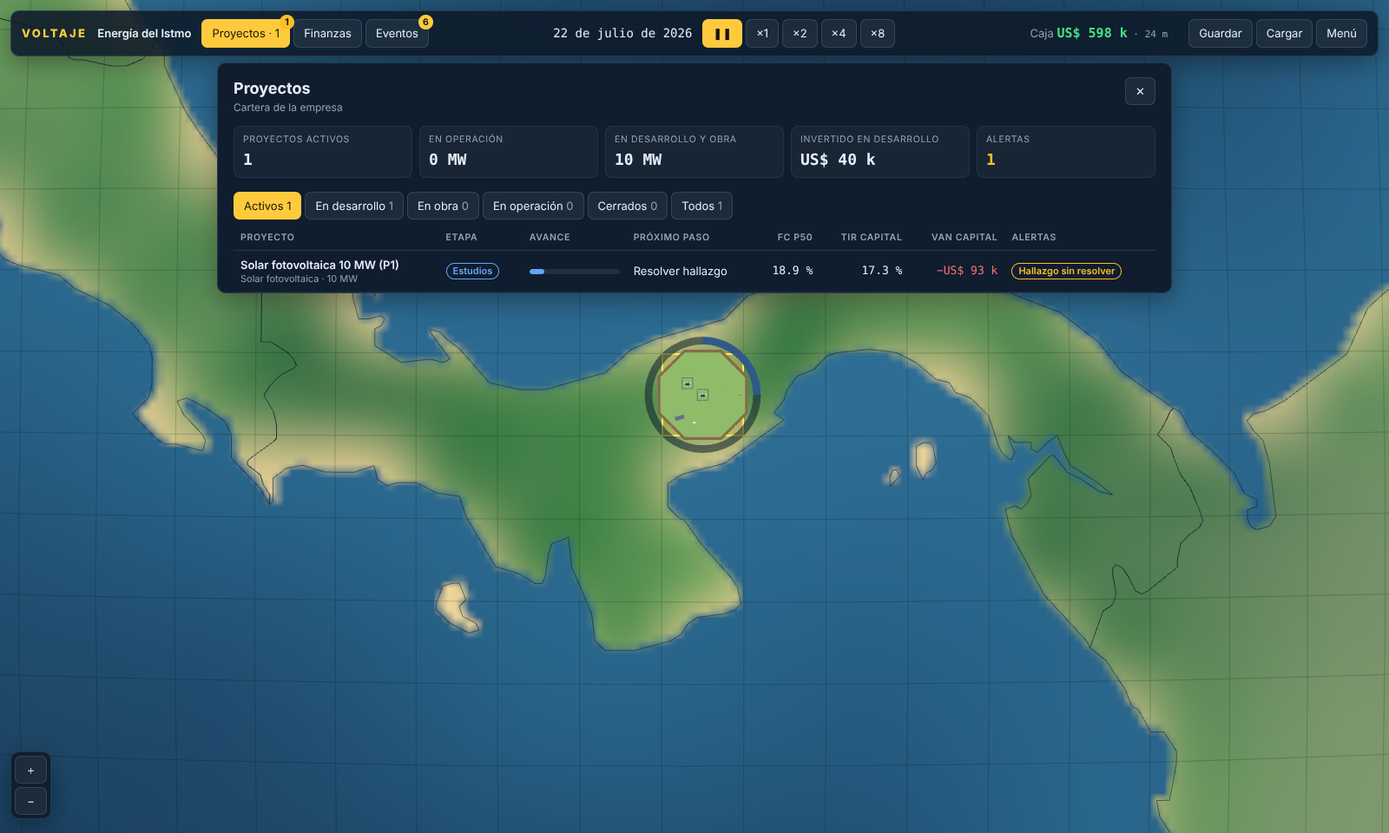
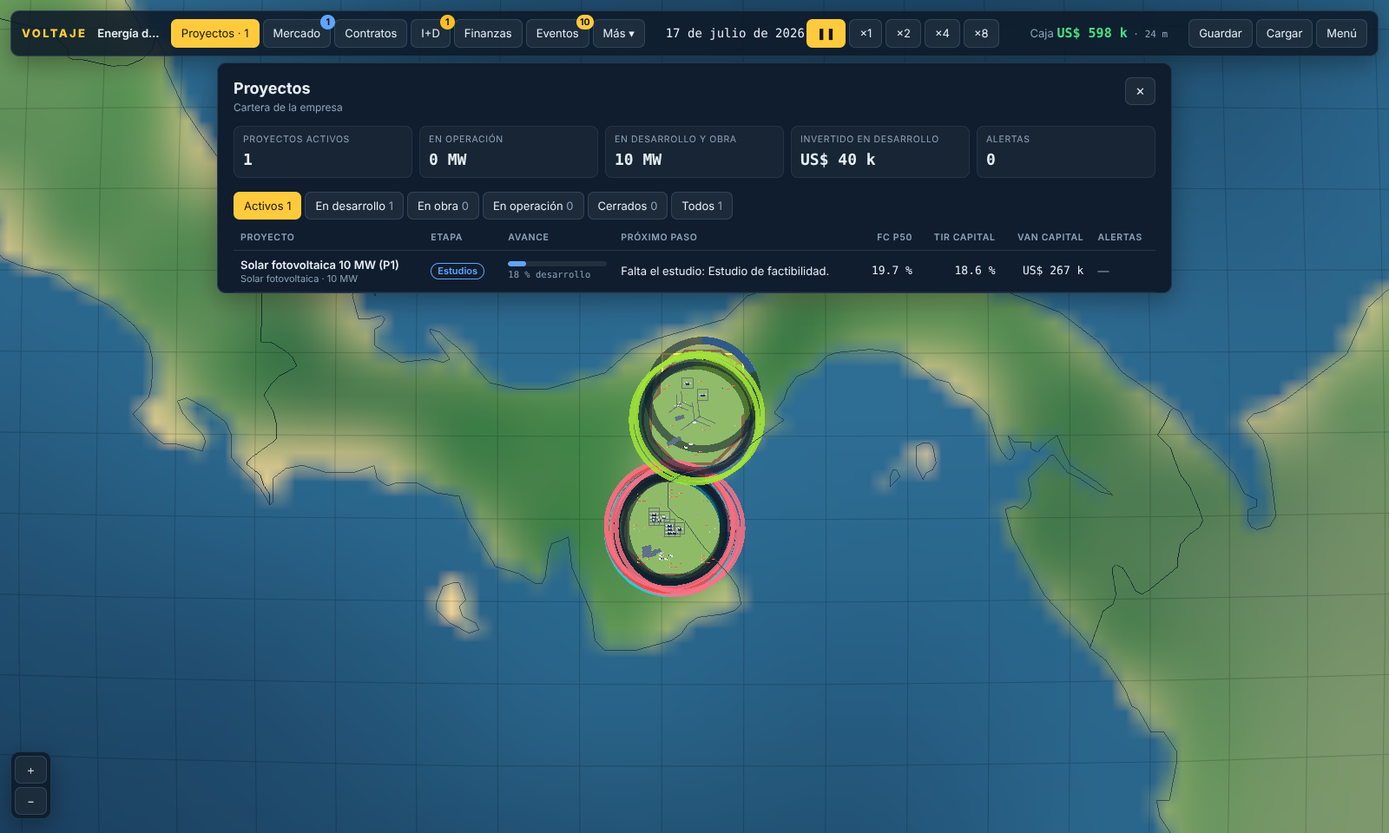
UI Fase 3: pulido visual (barra compacta, pesos, ficha de oportunidad), eventos de la IA filtrados, prueba de humo en una sola página (< 3 min), capturas y documentación
Claude-Session: https://claude.ai/code/session_013JqWNNvZubW6KT8mJjbqT7

diff --git a/energia/apps/game/src/ui/business/MarketPanel.tsx b/energia/apps/game/src/ui/business/MarketPanel.tsx
@@ -1,4 +1,5 @@
 import { Fragment, useState } from 'react';
+import { gameData } from '@voltaje/data';
 import type { MyBidView, OpportunityView, RankingEntry } from '@voltaje/sim';
 import { ui, useUi } from '../store';
 import { ConfirmButton, Empty, Pill, Section, Stat, Tabs, Window } from '../common';
@@ -66,13 +67,13 @@ function OpportunityTable({ list, sel, onPick, closed }: { list: OpportunityView
       <thead>
         <tr>
           <th>Cliente</th><th>Contrato</th><th className="num">Tamaño</th><th className="num">{closed ? 'Adjudicada' : 'Cierre'}</th>
-          <th className="num">Precio ref.</th><th className="num">Garantía</th><th>{closed ? 'Resultado' : 'Estado'}</th>
+          <th className="num">Precio ref.</th><th>{closed ? 'Resultado' : 'Estado'}</th>
         </tr>
       </thead>
       <tbody>
         {list.map((o) => (
           <tr key={o.id} className={`clickable ${sel === o.id ? 'selected' : ''}`} data-opp={o.id} onClick={() => onPick(o.id)}>
-            <td style={{ maxWidth: 260 }}>
+            <td style={{ maxWidth: 240 }}>
               <div className="row" style={{ gap: 6 }}>
                 <Pill tone={o.kind === 'licitacion_publica' ? 'info' : 'warn'}>{o.kind === 'licitacion_publica' ? 'Pública' : 'Privada'}</Pill>
                 <b className="ellipsis">{o.clientName}</b>
@@ -80,8 +81,8 @@ function OpportunityTable({ list, sel, onPick, closed }: { list: OpportunityView
               <div className="dim ellipsis" style={{ fontSize: 11 }}>{o.clientTypeName}</div>
             </td>
             <td>
-              <div className="row" style={{ gap: 5 }}><span className="dim">{CONTRACT_ICON[o.contract]}</span>{o.contractLabel}</div>
-              <div className="dim" style={{ fontSize: 11 }}>{o.techs.map((t) => techShort(t.id)).join(' · ')}</div>
+              <div className="row" style={{ gap: 5, whiteSpace: 'nowrap' }}><span className="dim">{CONTRACT_ICON[o.contract]}</span>{o.contractLabel}</div>
+              <div className="dim ellipsis" style={{ fontSize: 11, maxWidth: 170 }} title={o.techs.map((t) => techShort(t.id)).join(' · ')}>{o.techs.map((t) => techShort(t.id)).join(' · ')}</div>
             </td>
             <td className="num mono">
               {fmtNum(o.mw, 0)} MW{o.contract === 'potencia' ? ' firmes' : ''}
@@ -95,7 +96,6 @@ function OpportunityTable({ list, sel, onPick, closed }: { list: OpportunityView
               {fmtPrice(o.referencePrice, o.unit)}
               <div className="dim" style={{ fontSize: 11 }}>{o.ceilingPrice !== undefined ? `tope ${fmtNum(o.ceilingPrice, 1)}` : 'tope oculto'}</div>
             </td>
-            <td className="num mono">{fmtMoney(o.bidBondUsd)}</td>
             <td>{closed ? <ResultCell o={o} /> : <StatusCell o={o} />}</td>
           </tr>
         ))}
@@ -134,6 +134,25 @@ function OpportunityCard({ o }: { o: OpportunityView }) {
           <div className="dim" style={{ fontSize: 11.5 }}>{o.kindLabel} · {o.clientTypeName}</div>
         </div>
       </div>
+      {closed ? <ResultBlock o={o} /> : o.myBid ? (
+        <div className="notice good" style={{ marginTop: 10 }}>
+          <b>Tu oferta:</b> {fmtPrice(o.myBid.price, o.unit)} · {o.myBid.deliveryMonths} meses · {techShort(o.myBid.techId)}{o.myBid.projectId ? ` · ${o.myBid.projectId}` : ' · proyecto nuevo'}
+          <div className="dim" style={{ fontSize: 11.5 }}>Garantía {fmtMoney(o.myBid.bondUsd)} (colateral en caja {fmtMoney(o.myBid.bondUsd * (gameData.simData.clients?.garantias.colateral_frac ?? 0.5))}) · se adjudica el {fmtDate(o.awardDate)}</div>
+          {o.status === 'abierta' && (
+            <div style={{ marginTop: 6 }}>
+              <ConfirmButton confirm="Se recupera la garantía; el costo de preparación no." onConfirm={() => sim.command({ type: 'withdrawBid', opportunityId: o.id })}>Retirar oferta</ConfirmButton>
+            </div>
+          )}
+        </div>
+      ) : (
+        <>
+          {!o.canBid.ok && o.status === 'abierta' && <div className="notice warn" style={{ marginTop: 10 }}><b>No puedes ofertar:</b> {o.canBid.blockers.join(' ')}</div>}
+          <button className="primary" style={{ width: '100%', marginTop: 10 }} data-testid="open-bid" disabled={o.status !== 'abierta' || !o.techs.some((t) => t.modeled && t.unlocked)}
+            onClick={() => ui.set({ bidFor: o.id })} title={cash < o.prepCostUsd ? 'Caja insuficiente' : undefined}>
+            Armar oferta…
+          </button>
+        </>
+      )}
       <table className="kv" style={{ marginTop: 8 }}><tbody>
         <tr><td>Contrato</td><td>{o.contractLabel}</td></tr>
         <tr><td>{o.contract === 'potencia' ? 'Potencia firme' : 'Capacidad'}</td><td>{fmtNum(o.mw, 0)} MW{o.contract !== 'epc' ? ` · ${o.years} años` : ''}</td></tr>
@@ -157,28 +176,14 @@ function OpportunityCard({ o }: { o: OpportunityView }) {
       <div className="stat-label" style={{ margin: '10px 0 4px' }}>Criterios de evaluación</div>
       <div className="weights">
         {([['Precio', w.precio], ['Técnica', w.tecnica], ['Experiencia', w.experiencia], ['Plazo', w.plazo]] as const).map(([k, v]) => (
-          <div key={k} style={{ flex: v }} title={`${k}: ${fmtPct(v, 0)}`}><span>{k} {fmtPct(v, 0)}</span></div>
+          <div key={k} style={{ flex: v }} title={`${k}: ${fmtPct(v, 0)}`} />
         ))}
       </div>
-      {closed ? <ResultBlock o={o} /> : o.myBid ? (
-        <div className="notice good" style={{ marginTop: 12 }}>
-          <b>Tu oferta:</b> {fmtPrice(o.myBid.price, o.unit)} · {o.myBid.deliveryMonths} meses · {techShort(o.myBid.techId)}{o.myBid.projectId ? ` · ${o.myBid.projectId}` : ' · proyecto nuevo'}
-          <div className="dim" style={{ fontSize: 11.5 }}>Garantía inmovilizada {fmtMoney(o.myBid.bondUsd)} · se adjudica el {fmtDate(o.awardDate)}</div>
-          {o.status === 'abierta' && (
-            <div style={{ marginTop: 6 }}>
-              <ConfirmButton confirm="Se recupera la garantía; el costo de preparación no." onConfirm={() => sim.command({ type: 'withdrawBid', opportunityId: o.id })}>Retirar oferta</ConfirmButton>
-            </div>
-          )}
-        </div>
-      ) : (
-        <>
-          {!o.canBid.ok && o.status === 'abierta' && <div className="notice warn" style={{ marginTop: 12 }}><b>No puedes ofertar:</b> {o.canBid.blockers.join(' ')}</div>}
-          <button className="primary" style={{ width: '100%', marginTop: 12 }} data-testid="open-bid" disabled={o.status !== 'abierta' || !o.techs.some((t) => t.modeled && t.unlocked)}
-            onClick={() => ui.set({ bidFor: o.id })} title={cash < o.prepCostUsd ? 'Caja insuficiente' : undefined}>
-            Armar oferta…
-          </button>
-        </>
-      )}
+      <div className="weights-legend">
+        {([['Precio', w.precio], ['Técnica', w.tecnica], ['Experiencia', w.experiencia], ['Plazo', w.plazo]] as const).map(([k, v], i) => (
+          <span key={k}><i className={`wl wl${i}`} />{k} <b className="mono">{fmtPct(v, 0)}</b></span>
+        ))}
+      </div>
     </div>
   );
 }

diff --git a/energia/apps/game/src/ui/TopBar.tsx b/energia/apps/game/src/ui/TopBar.tsx
@@ -35,7 +35,7 @@ function MoreMenu() {
   return (
     <div className="menu-wrap" ref={ref}>
       <button className={active ? 'active' : ''} data-nav="more" onClick={() => setOpen(!open)} title="Competidores y proveedores">
-        {win === 'competitors' ? 'Competidores' : win === 'suppliers' ? 'Proveedores' : 'Más'} ▾
+        Más ▾
       </button>
       {open && (
         <div className="panel menu">
@@ -72,13 +72,13 @@ export function TopBar() {
         <NavButton id="projects" label={`Proyectos${active ? ` · ${active}` : ''}`} keyHint="P" badge={alerts} tone="var(--warn)" />
         <NavButton id="market" label="Mercado" keyHint="M" title="Licitaciones y ofertas" badge={biz?.biddableCount} tone="var(--info)" />
         <NavButton id="contracts" label="Contratos" keyHint="C" badge={contractAlerts} tone="var(--warn)" />
-        <NavButton id="research" label={researching ? 'I+D ◔' : 'I+D'} keyHint="I" title="Investigación y desarrollo" />
+        <NavButton id="research" label="I+D" keyHint="I" title={researching ? 'Investigación y desarrollo (investigando)' : 'Investigación y desarrollo: nada en curso'} badge={researching ? 0 : 1} tone="var(--warn)" />
         <NavButton id="finance" label="Finanzas" keyHint="F" />
         <NavButton id="events" label="Eventos" keyHint="E" badge={unread} />
         <MoreMenu />
       </div>
       <div className="spacer" />
-      <div className="mono date" data-testid="date">{formatDate(date)}</div>
+      <div className="mono date" title={formatDate(date)}><span className="date-long" data-testid="date">{formatDate(date)}</span><span className="date-short">{formatDate(date, true)}</span></div>
       <div className="row" style={{ gap: 4 }}>
         <button className={speedId === null ? 'active' : ''} onClick={() => ui.setSpeed(null)} title="Pausa (Espacio)">❚❚</button>
         {gameData.game.velocidades.map((v, i) => (
@@ -89,7 +89,7 @@ export function TopBar() {
       <div className="spacer" />
       <button className="cash" onClick={() => ui.openWindow('finance')}
         title={`Caja · ${runway === null ? 'la empresa genera caja' : `alcanza para ~${fmtNum(runway, 0)} meses`}${risk ? ` · riesgo de quiebra: ${risk.label.toLowerCase()}` : ''}`}>
-        <span className="dim">Caja </span>
+        <span className="dim cash-label">Caja </span>
         <span className="mono" style={{ fontSize: 15, fontWeight: 700, color: cash < 0 ? 'var(--bad)' : runway !== null && runway < 6 ? 'var(--warn)' : 'var(--good)' }} data-testid="cash">{fmtMoney(cash)}</span>
         {runway !== null && <span className="dim mono" style={{ fontSize: 11 }}> · {fmtNum(runway, 0)} m</span>}
       </button>

diff --git a/energia/apps/game/src/ui/business/CompetitorsPanel.tsx b/energia/apps/game/src/ui/business/CompetitorsPanel.tsx
@@ -22,7 +22,8 @@ export function CompetitorsPanel() {
     const o = baseOption(rows.map((r) => r.name), { unit: ' MW' }) as Record<string, unknown>;
     return {
       ...o,
-      grid: { left: 150, right: 18, top: 30, bottom: 22 },
+      grid: { left: 150, right: 18, top: 8, bottom: 22 },
+      legend: { show: false },
       xAxis: { type: 'value', splitLine: { lineStyle: { color: CHART.grid } }, axisLabel: { color: CHART.text, formatter: (v: number) => `${v} MW` } },
       yAxis: { type: 'category', inverse: true, data: rows.map((r) => r.name), axisLabel: { color: CHART.text, width: 135, overflow: 'truncate' }, axisLine: { lineStyle: { color: CHART.grid } } },
       series: [
@@ -41,7 +42,7 @@ export function CompetitorsPanel() {
       <div className="stats-row">
         <Stat label="MW renovables en operación" value={`${fmtNum(ov.totalOperatingMw, 0)} MW`} hint="empresas del juego" />
         <Stat label="Tu cuota" value={fmtPct(ov.player.marketShare, 0)} tone={ov.player.marketShare > 0 ? 'good' : undefined} hint={`${fmtNum(ov.player.operatingMw, 0)} MW`} />
-        <Stat label="Líder" value={leader && leader.marketShare > ov.player.marketShare ? leader.name : ov.player.name} hint={leader ? `${fmtPct(Math.max(leader.marketShare, ov.player.marketShare), 0)} del mercado` : undefined} />
+        <Stat label="Líder" value={ov.totalOperatingMw <= 0 ? 'Nadie aún' : leader && leader.marketShare > ov.player.marketShare ? leader.name : ov.player.name} hint={ov.totalOperatingMw <= 0 ? 'ninguna planta en operación' : `${fmtPct(Math.max(leader?.marketShare ?? 0, ov.player.marketShare), 0)} del mercado`} />
         <Stat label="Tu reputación" value={fmtNum(ov.player.reputation, 0)} />
         <Stat label="Competidores activos" value={list.filter((c) => c.status === 'activa').length} hint={list.some((c) => c.status === 'quebrada') ? `${list.filter((c) => c.status === 'quebrada').length} quebrada(s)` : undefined} />
       </div>
@@ -68,7 +69,7 @@ export function CompetitorsPanel() {
                 ))}
               </tbody>
             </table>
-            <Section title="Capacidad por empresa">{chartOpt && <Chart option={chartOpt} height={250} />}</Section>
+            <Section title="Capacidad por empresa" right={<span className="dim" style={{ fontSize: 11 }}>barra llena: en operación · clara: en desarrollo visible · ◆ experiencia acreditada</span>}>{chartOpt && <Chart option={chartOpt} height={250} />}</Section>
           </div>
           {sel && <CompetitorCard c={sel} index={list.indexOf(sel)} />}
         </div>

diff --git a/energia/apps/game/src/theme/theme.css b/energia/apps/game/src/theme/theme.css
@@ -55,10 +55,19 @@ button.link:hover:not(:disabled) { background: none; filter: brightness(1.2); }
 .topbar { position: absolute; top: 12px; left: 12px; right: 12px; padding: 8px 12px; gap: 12px; }
 .topbar .brand { font-weight: 800; letter-spacing: .18em; color: var(--accent); }
 .topbar .company { font-weight: 600; max-width: 180px; }
-.topbar .date { min-width: 150px; text-align: right; font-size: 14px; }
+.topbar .date { min-width: 150px; text-align: right; font-size: 14px; white-space: nowrap; }
+.topbar button { white-space: nowrap; }
 .topbar .cash { background: none; border-color: transparent; white-space: nowrap; }
 .nav-badge { position: absolute; top: -6px; right: -6px; min-width: 17px; height: 17px; padding: 0 4px; border-radius: 9px; color: #111; font-size: 10.5px; font-weight: 700; line-height: 17px; text-align: center; }
+.topbar .date-short { display: none; }
 @media (max-width: 1400px) { .topbar .company { display: none; } .topbar .date { min-width: 0; } .topbar { gap: 8px; } }
+@media (max-width: 1360px) {
+  .topbar .brand { display: none; }
+  .topbar .date-long, .topbar .cash-label { display: none; }
+  .topbar .date-short { display: inline; }
+  .topbar button { padding: 6px 8px; }
+  .topbar { gap: 6px; padding: 8px 10px; }
+}
 
 .window-wrap { position: absolute; inset: 66px 0 0 0; display: flex; justify-content: center; align-items: flex-start; padding: 6px 12px 12px; pointer-events: none; }
 .window { pointer-events: auto; background: var(--panel-solid); max-height: 100%; display: flex; flex-direction: column; padding: 16px 18px 0; }
@@ -183,7 +192,10 @@ kbd { font-family: var(--mono); font-size: 10.5px; color: var(--text-dim); borde
 .weights > div:nth-child(2) { background: #60a5fa; }
 .weights > div:nth-child(3) { background: #a78bfa; }
 .weights > div:nth-child(4) { background: #4ade80; }
-.weights span { overflow: hidden; text-overflow: ellipsis; padding: 0 4px; }
+.weights { height: 8px; }
+.weights-legend { display: flex; flex-wrap: wrap; gap: 4px 12px; font-size: 11.5px; margin-top: 6px; }
+i.wl { display: inline-block; width: 8px; height: 8px; border-radius: 2px; margin-right: 4px; }
+.wl0 { background: #ffcb3d; } .wl1 { background: #60a5fa; } .wl2 { background: #a78bfa; } .wl3 { background: #4ade80; }
 .ranking td, .ranking th { padding: 5px 6px; font-size: 12px; }
 .obligations { margin: 0; padding-left: 18px; font-size: 12px; display: grid; gap: 4px; }
 .swatch { display: inline-block; width: 9px; height: 9px; border-radius: 2px; margin-right: 7px; vertical-align: 1px; }

diff --git a/energia/apps/game/src/ui/business/SuppliersPanel.tsx b/energia/apps/game/src/ui/business/SuppliersPanel.tsx
@@ -20,12 +20,12 @@ export function SuppliersPanel() {
   if (!cat) return <Window title="Proveedores" onClose={() => ui.openWindow(null)} testId="suppliers-panel"><Empty>Cargando…</Empty></Window>;
   const sol = cat.techIndices.find((t) => t.techId === 'solar_fv');
   const wind = cat.techIndices.find((t) => t.techId === 'eolica_tierra');
-  const chg = (v: number | null) => (v === null ? 'sin historial de 12 meses' : `${v >= 0 ? '+' : '−'}${fmtPct(Math.abs(v), 1)} en 12 meses`);
+  const chg = (v: number | null) => (v === null ? 'vs. inicio de la partida' : `${v >= 0 ? '+' : '−'}${fmtPct(Math.abs(v), 1)} en 12 meses`);
   return (
     <Window title="Proveedores y cadena de suministro" subtitle="Precios actuales, plazos de entrega, colas de pedidos y tu relación con cada proveedor" width={1300} onClose={() => ui.openWindow(null)} testId="suppliers-panel">
       <div className="stats-row">
-        {sol && <Stat label="CAPEX solar FV hoy" value={`${fmtNum(sol.capexUsdKwNow, 0)} US$/kW`} hint={`equipos ×${fmtNum(sol.equipment, 3)} · ${chg(sol.equipmentChange12m)}`} tone={sol.equipmentChange12m !== null ? (sol.equipmentChange12m > 0 ? 'warn' : 'good') : undefined} />}
-        {wind && <Stat label="CAPEX eólica hoy" value={`${fmtNum(wind.capexUsdKwNow, 0)} US$/kW`} hint={`equipos ×${fmtNum(wind.equipment, 3)} · ${chg(wind.equipmentChange12m)}`} tone={wind.equipmentChange12m !== null ? (wind.equipmentChange12m > 0 ? 'warn' : 'good') : undefined} />}
+        {sol && <Stat label="CAPEX solar FV hoy" value={`${fmtNum(sol.capexUsdKwNow, 0)} US$/kW`} hint={`equipos ×${fmtNum(sol.equipment, 2)}${sol.equipmentChange12m !== null ? ` · ${chg(sol.equipmentChange12m)}` : ''}`} tone={sol.equipmentChange12m !== null ? (sol.equipmentChange12m > 0 ? 'warn' : 'good') : undefined} />}
+        {wind && <Stat label="CAPEX eólica hoy" value={`${fmtNum(wind.capexUsdKwNow, 0)} US$/kW`} hint={`equipos ×${fmtNum(wind.equipment, 2)}${wind.equipmentChange12m !== null ? ` · ${chg(wind.equipmentChange12m)}` : ''}`} tone={wind.equipmentChange12m !== null ? (wind.equipmentChange12m > 0 ? 'warn' : 'good') : undefined} />}
         {cat.materials.map((m) => <Stat key={m.id} label={m.nombre} value={`×${fmtNum(m.index, 2)}`} hint={chg(m.change12m)} tone={m.index > 1.1 ? 'warn' : m.index < 0.9 ? 'good' : undefined} />)}
         <Stat label="Demanda mundial" value={`×${fmtNum(cat.demandIndex, 2)}`} hint="alarga plazos y sube precios" tone={cat.demandIndex > 1.1 ? 'warn' : undefined} />
       </div>

diff --git a/energia/apps/game/src/ui/business/ResearchPanel.tsx b/energia/apps/game/src/ui/business/ResearchPanel.tsx
@@ -100,8 +100,8 @@ export function ResearchPanel() {
                 const x1 = a.x + NODE_W, y1 = a.y + NODE_H / 2, x2 = p.x, y2 = p.y + NODE_H / 2;
                 const mx = (x1 + x2) / 2;
                 const hot = sel && (sel.id === p.n.id || sel.id === r.id);
-                const c = r.done ? 'rgba(74,222,128,.55)' : 'rgba(140,180,220,.35)';
-                return <path key={`${r.id}-${p.n.id}`} d={`M${x1},${y1} C${mx},${y1} ${mx},${y2} ${x2},${y2}`} stroke={hot ? '#ffcb3d' : c} strokeWidth={hot ? 2.2 : 1.4} fill="none" strokeDasharray={r.done ? undefined : '4 3'} />;
+                const c = r.done ? 'rgba(74,222,128,.22)' : 'rgba(140,180,220,.35)';
+                return <path key={`${r.id}-${p.n.id}`} d={`M${x1},${y1} C${mx},${y1} ${mx},${y2} ${x2},${y2}`} stroke={hot ? '#ffcb3d' : c} strokeWidth={hot ? 2.2 : 1.2} fill="none" strokeDasharray={r.done ? undefined : '4 3'} />;
               }))}
             </svg>
             {[...L.placed.values()].map(({ n, x, y }) => (
@@ -174,7 +174,7 @@ function NodeDetail({ n, t }: { n: ResearchNodeView; t: ResearchTreeView }) {
       <table className="kv"><tbody>
         <tr><td>Costo</td><td>{fmtMoney(n.costUsd)}</td></tr>
         <tr><td>Duración mínima</td><td>{n.months} meses</td></tr>
-        <tr><td>Con tu presupuesto</td><td>{n.monthsAtBudget === null ? <span style={{ color: 'var(--warn)' }}>sin presupuesto</span> : `${fmtNum(n.monthsAtBudget, 1)} meses`}</td></tr>
+        {n.status !== 'completado' && <tr><td>Con tu presupuesto</td><td>{n.monthsAtBudget === null ? <span style={{ color: 'var(--warn)' }}>sin presupuesto</span> : `${fmtNum(n.monthsAtBudget, 1)} meses`}</td></tr>}
         <tr><td>Prob. de contratiempo</td><td>{fmtPct(n.setbackProbability, 0)}</td></tr>
         {n.progress > 0 && n.status !== 'completado' && <tr><td>Avance</td><td>{fmtPct(n.progress, 0)}</td></tr>}
       </tbody></table>

diff --git a/energia/apps/game/src/globe/Globe.ts b/energia/apps/game/src/globe/Globe.ts
@@ -99,7 +99,9 @@ export class Globe {
 
   constructor(private canvas: HTMLCanvasElement, private world: World) {
     const g = theme.globe;
-    this.renderer = new THREE.WebGLRenderer({ canvas, antialias: true, alpha: true });
+    // `?aa=0` (prueba de humo en CPU): sin antialias, que en swiftshader es lo más caro de cada cuadro
+    const params = new URLSearchParams(location.search);
+    this.renderer = new THREE.WebGLRenderer({ canvas, antialias: params.get('aa') !== '0', alpha: true });
     this.renderer.setPixelRatio(Math.min(window.devicePixelRatio, 2));
     this.renderer.outputColorSpace = THREE.SRGBColorSpace;
 
@@ -107,7 +109,9 @@ export class Globe {
     this.camera.position.set(0, 0, 3.2);
 
     // Texturas de mapa: 8192 px en Apple Silicon (costas nítidas al acercarse), 4096 si la GPU no da más.
-    const texSize = Math.min(8192, this.renderer.capabilities.maxTextureSize);
+    // `?tex=4096` (prueba de humo en CPU) baja la resolución para cargar más rápido.
+    const texParam = Number(params.get('tex')) || 8192;
+    const texSize = Math.min(texParam, 8192, this.renderer.capabilities.maxTextureSize);
     this.material = new THREE.ShaderMaterial({
       vertexShader: vertex,
       fragmentShader: fragment,

diff --git a/energia/apps/game/src/ui/project/ProjectWindow.tsx b/energia/apps/game/src/ui/project/ProjectWindow.tsx
@@ -102,7 +102,7 @@ function ViabilityCard({ v, d, onClose, stale }: { v: { busy: boolean; result?: 
       {r && (
         <div className="viab-grid">
           <div className="viab-big">
-            <div className="stat-label">Probabilidad de llegar a operación</div>
+            <div className="stat-label">Prob. de llegar a operación</div>
             <div className="mono" style={{ fontSize: 34, fontWeight: 800, color: r.probCod >= 0.6 ? 'var(--good)' : r.probCod >= 0.35 ? 'var(--warn)' : 'var(--bad)' }}>{fmtPct(r.probCod, 0)}</div>
             <div className="dim" style={{ fontSize: 11 }}>Estimación del motor sin simular: {fmtPct(d.successProbability, 0)}</div>
             <div className="dim" style={{ fontSize: 11 }}>Precio supuesto: {r.ppaChannelId ? `PPA (${d.ppa?.channelName ?? r.ppaChannelId})` : 'spot'}</div>

diff --git a/energia/apps/game/src/globe/sites.ts b/energia/apps/game/src/globe/sites.ts
@@ -82,13 +82,14 @@ export class SiteLayer {
     for (const [id, e] of this.entries) if (!seen.has(id)) { e.visual.dispose(); this.entries.delete(id); }
   }
 
-  /** Proyecto bajo el punto de pantalla (radio de 22 px). */
+  /** Proyecto bajo el punto de pantalla (radio de 22 px; las propias primero). */
   pickAt(x: number, y: number): string | null {
     let best: string | null = null, bestD = 22;
     for (const [id, e] of this.entries) {
       const s = this.globe.toScreen(e.pos);
       if (!s) continue;
-      const d = Math.hypot(s.x - x, s.y - y);
+      // las plantas propias tienen prioridad cuando se superponen con las de un competidor
+      const d = Math.hypot(s.x - x, s.y - y) + (this.rivalOwner.has(id) ? 10 : 0);
       if (d < bestD) { bestD = d; best = id; }
     }
     return best;

diff --git a/energia/apps/game/src/App.tsx b/energia/apps/game/src/App.tsx
@@ -58,6 +58,8 @@ function useGameEvents() {
           if (e.type === 'projectCreated') ui.openProject(e.projectId);
           continue;
         }
+        // el motor publica también la firma de contratos de la IA (ids «C2-K1»): no son del jugador
+        if ('contractId' in e && /^C\d+-/.test(e.contractId)) continue;
         const link = businessLink(e);
         if (link && 'text' in e && 'severity' in e) {
           log.push({ tick, date, text: e.text, severity: e.severity, link });

diff --git a/energia/docs/UI.md b/energia/docs/UI.md
@@ -1,4 +1,4 @@
-# UI de la Fase 2 — pantallas y flujos
+# UI de las Fases 2 y 3 — pantallas y flujos
 
 Todo en `apps/game/src`. Estilo de juego de gestión: ventanas grandes sobre el globo, tablas, KPI y gráficas (ECharts modular, `ui/Chart.tsx`). Colores y medidas en `theme/theme.css` (sección «Fase 2»); color por etapa en `globe/siteVisual.ts` (`STAGE_COLORS`, compartido con la UI).
 
@@ -43,7 +43,37 @@ La tarjeta de viabilidad muestra probabilidad de llegar a operación, meses P50/
 - `Globe.ts` expone `scene`, `camera`, `frameHooks`, `onPickScreen` y `toScreen()`.
 
 ## Atajos
-Espacio pausa/reanuda · 1–5 velocidades · P proyectos · F finanzas · E eventos · Esc cierra (diálogo → desarrollar → ventana → selección) · ⌘/Ctrl+S guardar · +/− zoom.
+Espacio pausa/reanuda · 1–5 velocidades · P proyectos · M mercado · C contratos · I investigación (I+D) · F finanzas · E eventos · R competidores · V proveedores · Esc cierra (diálogo → oferta → desarrollar → ventana → selección) · ⌘/Ctrl+S guardar · +/− zoom. Con un deslizador enfocado los atajos siguen funcionando; en campos de texto solo Esc.
+
+## Fase 3: mercado, contratos, I+D, competidores y proveedores
+Todo en `ui/business/`. Las vistas vienen de `selectorsBusiness.ts` y se calculan en el worker:
+- `Views.business` (`worker/protocol.ts`): `summary` (`selectBusinessSummary`), `competitors` (`selectCompetitors`, también para el globo) y `biddableCount` van **siempre**; `opportunities`+`myBids` (Mercado), `contracts`+`myBids` (Contratos), `research` (I+D) y `suppliers` (Proveedores) **solo mientras su ventana está abierta** (`sim.panel(id)`, lo hacen `ui.openWindow`/`ui.openPanel`).
+- Bajo pedido: `quote` → `selectBidQuote` + proveedores de la tecnología (diálogo de oferta, 120 ms de espera); `finPreview` → `previewFinancing`.
+- El worker llama `applyCommands(state, [], ctx)` al crear o cargar una partida: el mundo de la Fase 3 (mercado, IA) existe aunque el juego esté en pausa.
+
+| Pantalla | Archivo | Contenido |
+|---|---|---|
+| Barra superior | `ui/TopBar.tsx` | Proyectos · Mercado (nº de oportunidades sin oferta tuya) · Contratos (sin proyecto o atrasados) · I+D (aviso si no hay nada en curso) · Finanzas · Eventos · **Más ▾** (Competidores, Proveedores). Bajo 1360 px se ocultan marca y «Caja» y la fecha pasa a corta |
+| Mercado | `MarketPanel.tsx` | KPI (abiertas, ofertas vigentes, ganadas/perdidas, reputación, experiencia, caja en garantías); pestañas **Oportunidades** (pública/privada, cliente, contrato y tecnologías, MW, años, COD, cierre y días, referencia y tope u «oculto», estado: puedes ofertar / motivo / tu oferta), **Mis ofertas** (precio, plazo, puntaje, estado y puesto; fila desplegable con el ranking y tu puntaje por criterio) y **Resultados**. Ficha: tu oferta (retirar) o **Armar oferta…**, ranking con precios revelados si está cerrada, condiciones, garantías, multas, requisitos ✓/✕ y pesos de evaluación |
+| Armar oferta | `BidDialog.tsx` | tecnología (Fase 4 y sin investigar deshabilitadas), proyecto propio elegible o nuevo, esfuerzo estándar/reforzado, proveedores de equipos y EPC; equilibrio (VAN = 0), sugerido y tu precio; margen (−15 % a +60 %) o precio escrito; avisos de tope/equilibrio; plazo de COD con aviso si es < 80 % del realista; puntaje estimado por criterio y total; preparación, garantía de seriedad, colateral y comisión, garantía de cumplimiento, caja necesaria; bloqueos; confirmación en línea |
+| Contratos | `ContractsPanel.tsx` | KPI (activos, sin proyecto, atrasados, garantías, multas, ingresos); tabla (tipo, precio, estado, COD límite y días, avance, garantía); ficha con fechas, obligaciones, EPC (avance, presupuesto, cobrado, sobrecostos, daños, margen), proyecto vinculado y **Asignar proyecto** (misma tecnología, 0,9–1,5× MW, sin PPA ni contrato) |
+| I+D | `ResearchPanel.tsx` | árbol por ramas (carriles) y columnas por profundidad; líneas SVG de prerrequisitos (resaltadas para el nodo elegido); nodos con estado, costo, meses, «F4» si llega en la Fase 4 y avance. Panel: presupuesto mensual (0–250 k), ficha (efectos, costo, meses con tu presupuesto, contratiempo, requisitos), Investigar / Poner en cola / Encolar tras requisitos / Cancelar; cola |
+| Competidores | `CompetitorsPanel.tsx` | KPI (MW en operación, tu cuota, líder, reputación, activas); tabla (cuota, MW, proyectos visibles, licitaciones G/P, reputación); gráfica de capacidad (operación, desarrollo visible, experiencia); ficha (estrategia aparente, descripción, proyectos visibles → vuela al sitio) |
+| Proveedores | `SuppliersPanel.tsx` | KPI (CAPEX solar/eólica hoy, materiales, demanda); **Catálogo** por tipo (equipos, inversores, EPC, logística): precio hoy vs. lista, calidad, confiabilidad, entrega, cola/capacidad, relación; **Precios e índices**: gráficas de equipos/obra por tecnología y de materiales + demanda, tabla de índices |
+
+Otros cambios:
+- **Construcción**: tablas opcionales de **inversores** (solo FV) y **logística**; `selectSuppliers` con `inverterId`/`logisticsId` (clic de nuevo = volver a lo incluido en el paquete).
+- **Financiación**: la vista previa usa `previewFinancing` (deuda del banco y qué la limita, tasa/plazo/DSCR, asesores y comisión, caja neta propia, probabilidad y due diligence, aviso de monto mínimo, bloqueos).
+- **Operación**: producción esperada con el perfil estacional (`operation.expectedMonthlyMwh`, P50 y P90); sin operación, el perfil esperado del año; tabla de fallas (`operation.failureLog`).
+- **Viabilidad**: compara `npvExpectedUsd` (con riesgo) con `npvDeterministicUsd` (misma base) y muestra el costo del riesgo y el precio supuesto.
+- **Proyectos**: barra de avance con `stageProgress`; el anillo del globo también.
+- **Comercial**: enlace al contrato del mercado (`contractId`) o al Mercado.
+- **Eventos**: fecha desde `tick` de cada evento; los de negocio enlazan a su ventana; filtro «Mercado, contratos, I+D y competencia». Los `contractSigned` de la IA (ids `C1-K1`) se descartan.
+- **Globo**: plantas visibles de los competidores con `siteVisual` y un anillo exterior del color de la empresa (`ui/business/labels.ts`); clic → Competidores. Ante superposición el clic prefiere las propias. Las oportunidades no tienen ubicación en el motor: no hay marcadores de oportunidades.
+- **Rendimiento**: con una ventana o diálogo abierto el globo se dibuja a ~4 cuadros/s (`Globe.throttleMs`), salvo en vuelos de cámara o mientras se mueve.
 
 ## Prueba de humo
-`npm run build && npm run screens` (`tools/screenshots.mjs`): Fase 1 (menú, capas, tiempo) y Fase 2 en 1600×960: nueva partida → celda de Coclé (8,6° N 80,3° O) → solar de 10 MW → estudios satelital y de prefactibilidad → ×8 ≈ 6 meses → clic en el marcador del globo → todas las pestañas → proveedores → viabilidad → proyectos, finanzas, P&G, eventos → guardar, recargar, continuar (verifica fecha y proyecto). Repite lo clave en 1280×800. Falla con errores de consola. Expone `window.__voltaje` (`flyTo`, `siteScreenPos`) solo para esta prueba.
+`npm run build && npm run screens` (`tools/screenshots.mjs`, ≈ 2–2,5 min): una sola página (cargar el mundo y armar las texturas en CPU es lo más lento) con `?tex=4096&aa=0` (texturas de 4096 px y sin antialias, solo para la prueba). Entre partes vuelve al menú; las capturas de 1280×800 se toman cambiando el tamaño de la ventana.
+- Fase 1 (menú, capas, tiempo) y Fase 2 en 1600×960: nueva partida → celda de Coclé (8,6° N 80,3° O) → solar de 10 MW → estudios satelital y de prefactibilidad → ×8 ≈ 6 meses → clic en el marcador del globo → todas las pestañas → proveedores → viabilidad → proyectos, finanzas, P&G, eventos → lo clave en 1280×800 → guardar, salir al menú, continuar (verifica fecha y proyecto).
+- Fase 3 (semilla 59: licitación de ETESA de 31 MW abierta en enero): I+D (presupuesto 100 k, PPA corporativo + EPC en cola) → Mercado → armar oferta (margen 3 %; también en 1280) → presentar y confirmar → ×8 hasta la adjudicación → Mis ofertas con el ranking → Contratos → I+D → Competidores → Proveedores (catálogo y precios) → plantas rivales en el globo → I+D en 1280.
+- Falla con errores de consola. `SCREENS_PORT` cambia el puerto de `vite preview` (4173); `SCREENS_ONLY=3` corre solo la Fase 3; `SCREENS_TIMING=1` imprime el tiempo de cada captura. Expone `window.__voltaje` (`flyTo`, `siteScreenPos`, `rivalSites`) solo para esta prueba.

diff --git a/energia/CLAUDE.md b/energia/CLAUDE.md
@@ -5,7 +5,8 @@ Juego independiente de Dinastía (el juego Godot de la raíz del repo). Vive en 
 ## Estado actual
 - **Fase 1 completa**: globo 3D, capas de recursos, tiempo con velocidades, guardado/carga, menú principal, CI para Mac.
 - **Fase 2 (motor) lista**: núcleo económico, Panamá (permisos, PPA, bancos, impuestos), solar FV y eólica con ciclo completo de proyecto, estados financieros, quiebra, Monte Carlo. Detalle en `docs/MOTOR_FASE2.md`.
-- **Fase 3 (motor) lista**: licitaciones y clientes, ofertas por puntaje, contratos con garantías y penalidades, EPC para terceros, cadena de suministro dinámica, 5 competidores IA con los mismos comandos, árbol de I+D. Detalle en `docs/MOTOR_FASE3.md`. Siguiente: UI de la Fase 3.
+- **Fase 3 (motor) lista**: licitaciones y clientes, ofertas por puntaje, contratos con garantías y penalidades, EPC para terceros, cadena de suministro dinámica, 5 competidores IA con los mismos comandos, árbol de I+D. Detalle en `docs/MOTOR_FASE3.md`.
+- **Fase 3 (UI) lista**: Mercado (oportunidades, armar oferta con cotización y puntaje, mis ofertas y resultados con ranking), Contratos (obligaciones, asignar proyecto), I+D (árbol con prerrequisitos, presupuesto, cola), Competidores (tabla, fichas, gráfica, plantas en el globo), Proveedores (catálogo, índices), inversores/logística en Construcción, `previewFinancing`, perfil estacional, `stageProgress`. Detalle en `docs/UI.md`.
 - **Fase 2 (UI) lista**: desarrollar en un sitio, panel y detalle de proyectos (Gantt, estudios, permisos, PPA, financiación, construcción, operación, viabilidad), finanzas de la empresa, registro de eventos, quiebra, sitios 3D en el globo. Detalle en `docs/UI.md`.
 
 ## Comandos (desde `energia/`)
@@ -39,7 +40,7 @@ packages/data   YAML editables + esquemas Zod (game, layers, countries/*, techno
 apps/game       Vite + React + Three.js
   worker/       el GameState vive solo en un Web Worker (carga la grilla y calcula las vistas de los selectores); la UI recibe instantáneas + vistas y envía comandos
   globe/        Globe.ts (shader propio: mapa base, capa, máscara de costa, cuadrícula, selección, facetas); sites.ts + siteVisual.ts (adaptador único a models/)
-  ui/           paneles React; store.ts = estado de UI (no de juego); project/ = pestañas del detalle de proyecto
+  ui/           paneles React; store.ts = estado de UI (no de juego); project/ = pestañas del detalle de proyecto; business/ = mercado, oferta, contratos, I+D, competidores, proveedores
   storage/      partidas en IndexedDB + exportar/importar .json
   theme/        theme.ts (colores del globo) y theme.css (UI): el estilo se cambia aquí
   src-tauri/    envoltorio nativo de Mac
@@ -86,10 +87,15 @@ Reglas:
 | 2026-11-04 | Vista previa de sitio = `previewSite` + `createProject` sobre una copia del estado para obtener TIR/VAN/LCOE con los mismos selectores (sin tocar la partida). |
 | 2026-11-04 | Registro de eventos solo en la UI; al cargar se reconstruye con las líneas de tiempo de los proyectos (no se cambia el formato de guardado). |
 | 2026-11-04 | Sitios del globo vía `globe/siteVisual.ts` sobre `src/models` (escala 0,008, anillo de avance por etapa, clic por proximidad en pantalla). |
+| 2026-11-10 | UI Fase 3: vistas de negocio pesadas solo con su ventana abierta (`sim.panel`); resumen y competidores siempre. Cotización y vista previa de financiamiento bajo pedido. |
+| 2026-11-10 | UI Fase 3: Mercado/Contratos/I+D en la barra y Competidores/Proveedores en «Más ▾»; atajos M, C, I, R, V. |
+| 2026-11-10 | Globo: plantas visibles de la IA con `siteVisual` + anillo exterior del color de la empresa; el clic prefiere las propias. Con ventana abierta el globo se dibuja a ~4 cuadros/s. |
+| 2026-11-10 | Prueba de humo en una sola página con `?tex=4096&aa=0` (≈ 2–2,5 min en CPU); semilla 59 para la licitación de la Fase 3. |
 
 ## Pendientes conocidos
-- UI: el motor ya expone `resource.monthlyMwh`/`operation.expectedMonthlyMwh` (perfil estacional) y `SimEvent.tick`; falta usarlos en la UI.
-- Fase 3: la UI de licitaciones, contratos, competidores, I+D y proveedores está por hacer (selectores en `selectorsBusiness.ts`).
+- Motor: cuando la IA gana una licitación, `signContract` publica `contractSigned` (ids `C1-K1`) en los eventos del jugador; la UI los descarta por el prefijo. Debería ir al `sink` de la IA.
+- Motor (para la UI): ubicación de las oportunidades (marcadores en el globo), historial de cuota de mercado, país en `ContractView`, proyectos elegibles por contrato (hoy la UI replica el filtro de `assignContractProject`).
+- La prueba de humo pierde la licitación (empresa nueva: reputación y experiencia bajas); la ventana Contratos solo se capturó vacía.
 - Fase 3: precios de licitaciones, garantías y pesos aproximados (`supuesto`); la IA empieza sin plantas (su experiencia histórica solo da puntaje).
 - Falta una captura de una planta en operación (requiere años de juego); la pestaña Operación solo se probó vacía.
 - Permisos, plazos y probabilidades de Panamá son aproximados (marcados `supuesto`); calibrar con desarrolladores locales si se consigue información.
